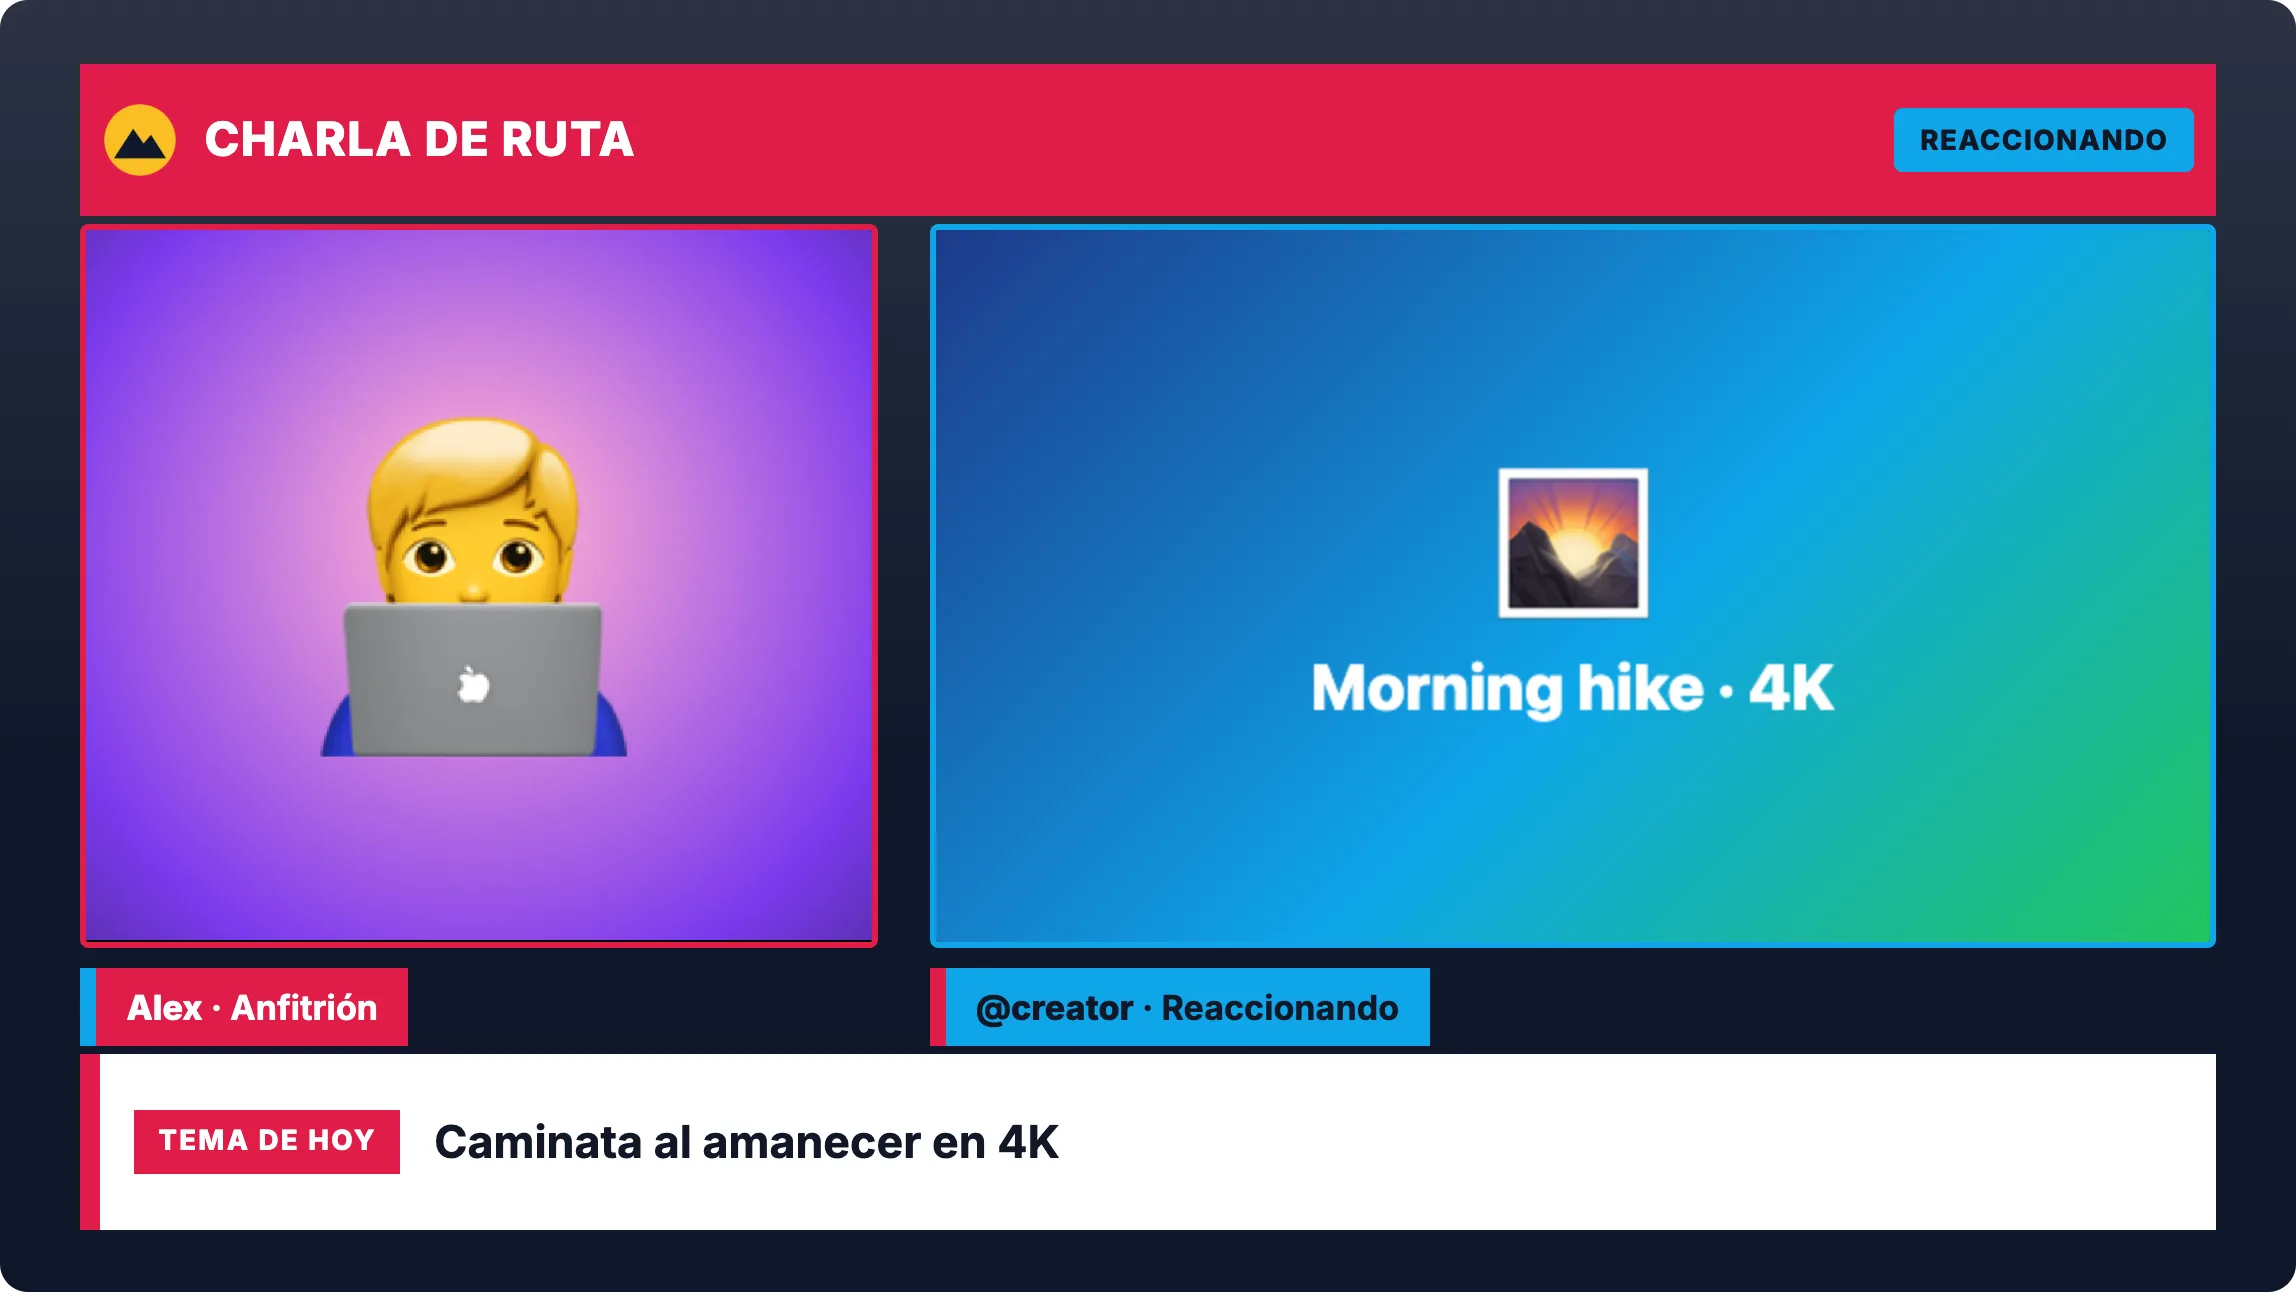
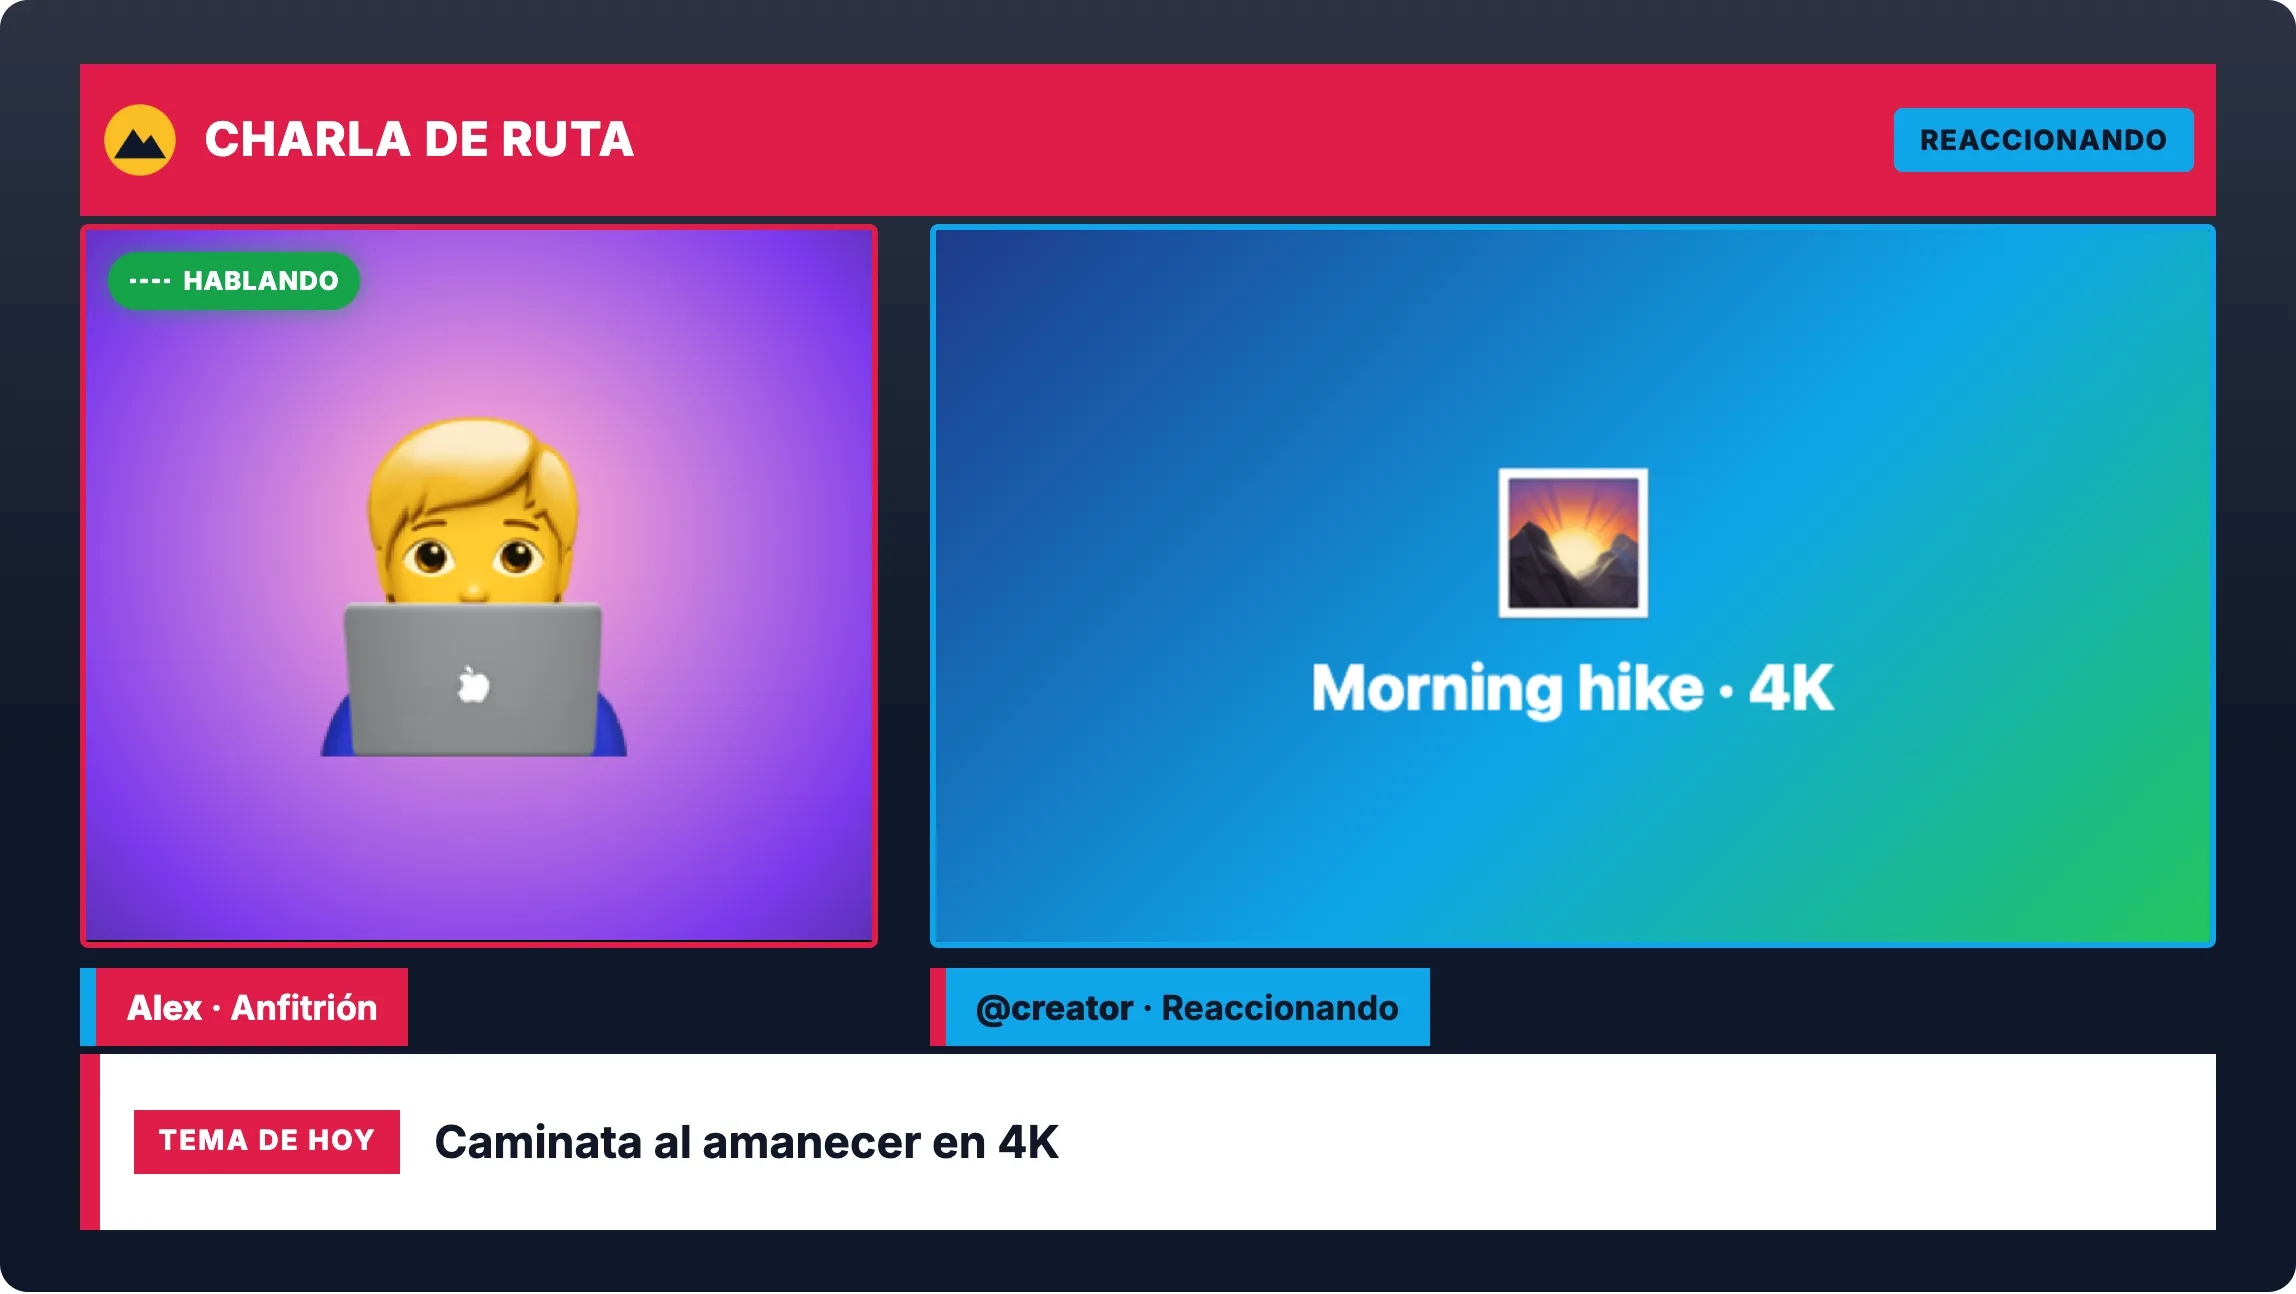
feat(estudio): cartel «Hablando/Escuchando» con barras de sonido y crédito al creador en «Para YouTube» (fase 4)
- El cartel va dentro del escenario (sale en la grabación), sobre el anfitrión y sobre el invitado remoto
- Detector con histéresis aparte de la mezcla; casilla para quitarlo, guardada en el borrador
- Tabla video_credito; zod solo acepta enlaces de YouTube o TikTok; solo el dueño lo recibe
- e2e mira el verde del cartel en el MP4 y el crédito en la página del video (C-HABLANDO, C-CREDITO)
- Guía en Docs en inglés y español con captura real

Changed region(s): [[0.0309, 0.1855, 0.1546, 0.2473]]

diff --git a/e2e/estudio-hablando.spec.ts b/e2e/estudio-hablando.spec.ts
@@ -1,0 +1,65 @@
+import { expect, test } from '@playwright/test';
+import { cabecerasDePrueba, examinarVideo } from './ayuda';
+
+test.use({ extraHTTPHeaders: cabecerasDePrueba(), viewport: { width: 1280, height: 900 } });
+
+// CANDADO C-HABLANDO (fase 4): el cartel «Hablando / Escuchando» con sus barras va DENTRO del escenario, se enciende
+// con el micrófono (el de prueba de Chrome suena a pitidos) y sale verde en el MP4 grabado.
+test('el cartel «Hablando» se enciende con el micrófono y sale en la grabación', async ({ page }) => {
+  test.setTimeout(180_000);
+  await page.goto('/signup');
+  const puede = await page.evaluate(() => 'CropTarget' in window);
+  test.skip(!puede, 'Este navegador no tiene Region Capture.');
+  await page.getByLabel('Your name').fill('Soporte E2E');
+  await page.getByLabel('Email').fill(`e2e.estudio.hablando.${Date.now()}@example.com`);
+  await page.getByLabel('Password', { exact: true }).fill(`Prueba-${Date.now()}`);
+  await page.getByRole('button', { name: 'Create account' }).click();
+  await expect(page).toHaveURL(/\/library/);
+  await page.goto('/studio');
+  await page.locator('[data-archivo-estudio]').setInputFiles('e2e/datos/vertical-verde.mp4');
+  await expect(page.locator('.escenario video.video-local')).toBeVisible();
+  await page.locator('#estudio-creador').fill('@creadora.prueba');
+  const cartel = page.locator('[data-escenario] [data-voz=anfitrion]');
+  await expect(cartel).toBeVisible();
+  await page.mouse.click(5, 5); // despierta el sonido de la página, como el primer toque de una persona
+  // El micrófono de prueba suena: el cartel se enciende (que se apague en el silencio lo cubre pruebas/voz.test.ts:
+  // el sonido de prueba de Chrome no hace pausas largas).
+  await expect(cartel).toHaveAttribute('data-hablando', '1', { timeout: 15_000 });
+  await expect(cartel).toHaveText('Speaking');
+  // Apagado con su casilla, el cartel no sale; encendido, vuelve.
+  await page.getByLabel(/Speaking \/ Listening/).uncheck();
+  await expect(cartel).toHaveCount(0);
+  await page.getByLabel(/Speaking \/ Listening/).check();
+  await expect(cartel).toHaveAttribute('data-hablando', '1', { timeout: 15_000 });
+
+  const total = (await page.locator('[data-escenario]').boundingBox())!;
+  const caja = (await cartel.boundingBox())!;
+  const puntos = Array.from({ length: 7 }, (_, i) => ({
+    x: (caja.x + caja.width * (0.2 + i * 0.1) - total.x) / total.width,
+    y: (caja.y + caja.height / 2 - total.y) / total.height,
+  }));
+  await page.getByRole('button', { name: 'Start recording' }).click();
+  await expect(page.locator('.estudio .indicador')).toHaveText('Recording', { timeout: 20_000 });
+  await page.waitForTimeout(4000);
+  await page.getByRole('button', { name: 'Finish' }).click();
+  await expect(page).toHaveURL(/\/v\/[a-z0-9]{20}$/, { timeout: 60_000 });
+  const id = new URL(page.url()).pathname.split('/')[2]!;
+  const examen = await examinarVideo(await (await page.request.get(`/media/${id}/video?descargar=1`)).body());
+  let verdes = 0;
+  for (const s of [0.4, 0.8, 1.2, 1.6, 2.0, 2.4, 2.8, 3.2]) {
+    const cuadro = examen.cuadro(s);
+    if (
+      puntos.some((p) => {
+        const [r, g, b] = cuadro(p.x, p.y) as [number, number, number];
+        if (process.env.DEPURAR) console.log(s, p.x.toFixed(3), p.y.toFixed(3), r, g, b);
+        // El verde del cartel (#16a34a) lleva azul; el de la cámara de prueba, no: así no se confunden.
+        return g > 150 && r < 90 && b > 45 && b < 130 && g > b + 50;
+      })
+    )
+      verdes++;
+  }
+  expect(verdes, 'cuadros con el cartel «Hablando» en verde').toBeGreaterThan(0);
+
+  // «Para YouTube» trae el crédito del video original ya puesto (C-CREDITO).
+  await expect(page.locator('[data-credito]')).toContainText('Original video by @creadora.prueba');
+});

diff --git a/web/src/paginas/guias.ts b/web/src/paginas/guias.ts
@@ -1075,6 +1075,38 @@ export const GUIAS: Guia[] = [
     },
   },
   {
+    slug: 'speaking-sign-and-creator-credit',
+    seccion: 'grabar',
+    icono: '💬',
+    imagen: 'hablando',
+    en: {
+      titulo: 'The “Speaking” sign, sound bars and the creator credit, ready for YouTube',
+      resumen:
+        'In the Reaction Studio, a small sign over your camera lights up green when you talk, with bars that move with your voice. And when you finish, “For YouTube” already has the credit to the original creator.',
+      cuerpo: [
+        'Open the Reaction Studio. Over your camera you see a small sign: it says “Listening” while you are quiet and turns green with “Speaking” when you talk. The little bars next to it move with your voice. It is part of the stage, so it is in your recording, like on a live show.',
+        'When the second card is a remote guest, your guest has their own sign over their card, so viewers always know who is talking.',
+        'The sign listens to your microphone on its own: it does not change your sound or the recording. Short pauses between words do not make it blink; it turns off after a moment of silence. The video’s sound coming out of your speakers does not turn it on.',
+        'Do you prefer a cleaner stage? Uncheck “Speaking / Listening sign and sound bars” under the stage. Your choice is saved for next time.',
+        'Credit to the creator: when you react to a YouTube or TikTok video (or write the creator’s @ for a video from your computer), Pantalay saves who made the original video. On your video’s page, “For YouTube” shows the credit line ready to copy, and it goes into the description it writes for you, with the link to the original.',
+        'Always react with your own commentary and credit the creator. What you publish is your responsibility.',
+      ],
+    },
+    es: {
+      titulo: 'El cartel «Hablando», las barras de sonido y el crédito al creador, listo para YouTube',
+      resumen:
+        'En el Estudio de reacciones, un cartelito sobre tu cámara se pone verde cuando hablas, con barras que se mueven con tu voz. Y al terminar, «Para YouTube» ya trae el crédito al creador del video original.',
+      cuerpo: [
+        'Abre el Estudio de reacciones. Sobre tu cámara ves un cartelito: dice «Escuchando» mientras estás callado y se pone verde con «Hablando» cuando hablas. Las barritas de al lado se mueven con tu voz. Es parte del escenario, así que sale en tu grabación, como en un programa en vivo.',
+        'Cuando la segunda tarjeta es un invitado a distancia, tu invitado tiene su propio cartel sobre su tarjeta, para que quien mire sepa siempre quién está hablando.',
+        'El cartel escucha tu micrófono aparte: no cambia tu sonido ni la grabación. Las pausas cortas entre palabras no lo hacen parpadear; se apaga después de un momento de silencio. El sonido del video que sale por tus parlantes no lo enciende.',
+        '¿Prefieres un escenario más limpio? Desmarca «Cartel Hablando / Escuchando y barras de sonido» debajo del escenario. Tu elección queda guardada para la próxima vez.',
+        'Crédito al creador: cuando reaccionas a un video de YouTube o de TikTok (o escribes el @ del creador para un video de tu computadora), Pantalay guarda quién hizo el video original. En la página de tu video, «Para YouTube» muestra la línea del crédito lista para copiar, y la pone en la descripción que te escribe, con el enlace al original.',
+        'Reacciona siempre con comentarios propios y dale el crédito al creador. Lo que publicas es tu responsabilidad.',
+      ],
+    },
+  },
+  {
     slug: 'publish-to-videos',
     seccion: 'compartir',
     icono: '📣',

diff --git a/CANDADOS.md b/CANDADOS.md
@@ -996,3 +996,25 @@ Cada candado: qué protege, cómo se comprueba y qué no tocar. Commit de refere
   `imagenAceptable` + `achicarImagen` (lado largo 512, PNG o WebP).
 - Prueba: `pruebas/subir-imagen.test.tsx` revisa TODAS las pantallas de `web/src`: un `<input type="file">` que acepte
   imágenes fuera de SubirImagen la pone en rojo. Comprobada en ROJO el 10 nov 2026 con una casilla suelta de prueba.
+
+## C-HABLANDO y C-CREDITO: cartel «Hablando», barras de sonido y crédito para YouTube (10 nov 2026, fase 4)
+
+- C-HABLANDO: sobre la cámara del anfitrión (y sobre la tarjeta del invitado remoto, con su voz) va un cartel
+  «Escuchando» que se pone VERDE con «Hablando» cuando suena la voz, con 4 barras que siguen el nivel. Va DENTRO del
+  escenario: sale en la grabación (16:9, 9:16, con invitado). Casilla «Cartel Hablando / Escuchando y barras de sonido»
+  (encendida por defecto, guardada en el borrador del Estudio).
+- Cómo: `useVoz` (`web/src/componentes/CartelVoz.tsx`) escucha APARTE (analizador propio; no toca la mezcla ni la
+  grabadora) el micrófono elegido, con cancelación de eco y supresión de ruido (el sonido del video por los parlantes
+  no lo enciende). `DetectorVoz` (`web/src/logica/voz.ts`): se enciende con nivel ≥ 0,12, sigue mientras ≥ 0,07 y se
+  apaga tras 450 ms de silencio (no parpadea entre sílabas). Repinta como mucho 20 veces por segundo y solo si cambió.
+- C-CREDITO: al terminar una reacción, el Estudio manda `credito` (creador del cartel y enlace original de YouTube o
+  TikTok; zod solo acepta `https://(www.)youtube.com/…` o `tiktok.com/…`). Tabla nueva `video_credito` (1 fila por
+  reacción; se copia al duplicar y se borra con el video). `GET /datos/videos/:id` lo da SOLO al dueño. «Para YouTube»
+  muestra la línea lista para copiar (aunque la IA no esté) y la pone en la descripción (`lineaCredito`).
+- Pruebas: `pruebas/voz.test.ts` (nivel, histéresis, barras, línea del crédito, servidor y zod) y
+  `e2e/estudio-hablando.spec.ts` (micrófono de prueba → «Speaking»; la casilla lo quita y lo vuelve a poner; graba y
+  busca en el MP4 el verde del cartel, distinto del verde de la cámara de prueba porque lleva azul; y en la página del
+  video está «Original video by @…»). Comprobadas en ROJO el 10 nov 2026: sin sostener la voz falla la unitaria; con
+  el cartel gris en vez de verde falla la e2e «cuadros con el cartel Hablando en verde»; y el primer intento devolvía el
+  crédito fuera de `video` (la unitaria lo atrapó).
+- Fuera de esta fase: transmitir en vivo a YouTube (no estaba en la línea de PENDIENTES; gastaría y pide decisión de Richard).

diff --git a/PENDIENTES.md b/PENDIENTES.md
@@ -79,8 +79,8 @@
       cartel, logo (con «Tomar foto») y colores, guardadas por cuenta (C-MASCARAS, C-CAMARA-FOTO). Guía en Docs.
 - [ ] [para: revisor-calidad] Revisar el paquete del Estudio fases 3 y 4 (máscaras, cámara para imágenes, cartel
       «Hablando», crédito en «Para YouTube»). Motivo: se publicó por orden de la meta; falta la revisión del paquete.
-- [ ] Estudio, fase 4: cartel «Hablando/Escuchando» con el micrófono, barras de sonido, «Para YouTube» con el
-      creador ya puesto.
+- [x] Estudio, fase 4 (10 nov 2026): cartel «Hablando/Escuchando» con el micrófono (anfitrión e invitado), barras de
+      sonido y «Para YouTube» con el crédito al creador ya puesto (C-HABLANDO, C-CREDITO). Guía en Docs.
 
 - [x] Partes de subida iguales (grabaciones largas), vista previa con imagen, burbuja flotante, forma vertical,
       borde de colores, «Grabando» arriba, ruedita de subida, «Subir otra vez» (19 oct 2026, comprobado en vivo).
